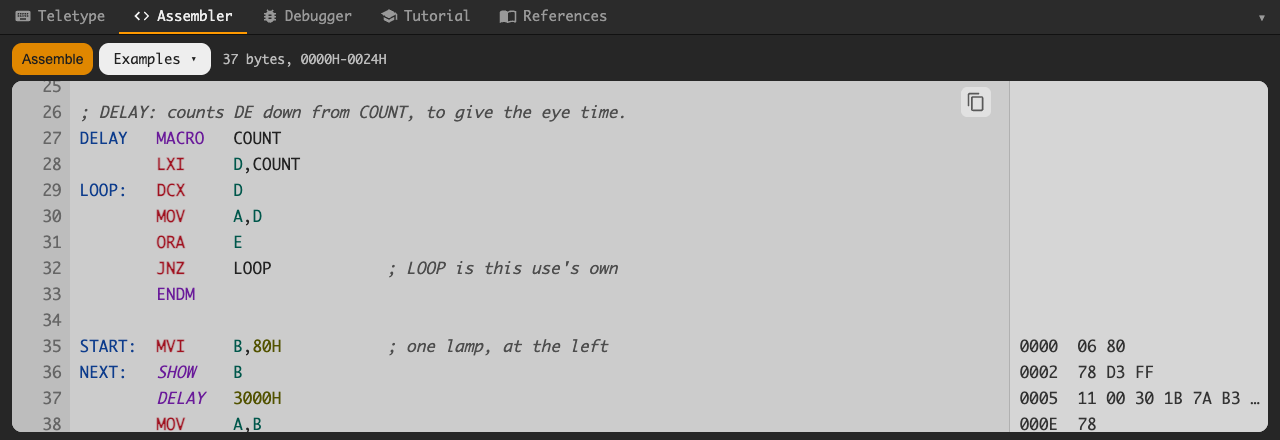
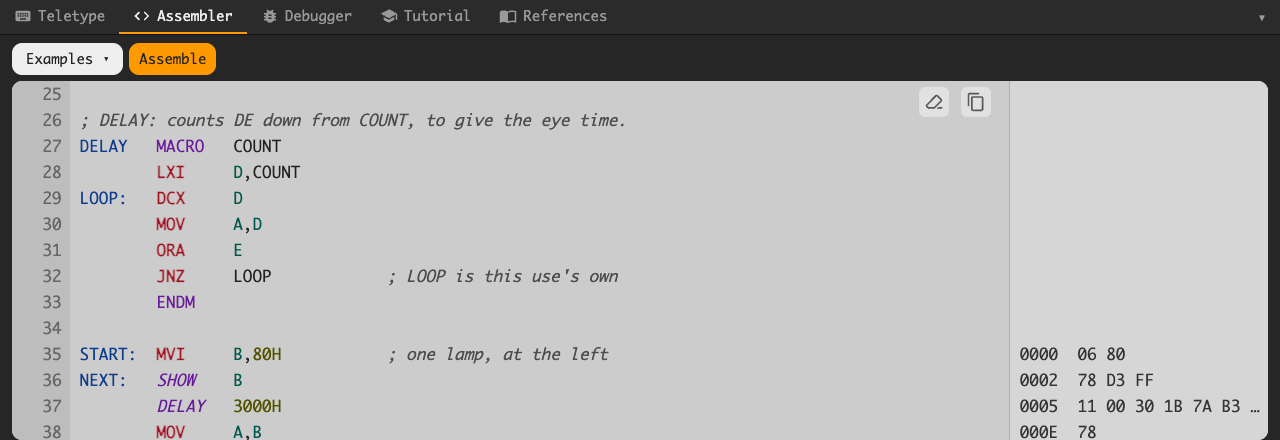
Examples before Assemble, no summary, and an eraser for Clear (#12)
The Assembler's toolbar now reads in the order it is used: Examples,
then Assemble. The summary beside them - the size and range, or how
many errors, kept up to date while typing - is gone: it repeated the
listing and the error list, and the status line says the same once
Assemble is pressed. Clear's icon is an eraser rather than a backspace
key, which read as deleting one character.

The browser checks hold the new order on desktop and phone, and the
README's picture of the Assembler is retaken.

diff --git a/index.html b/index.html
@@ -179,7 +179,6 @@
                line for line; the errors under them. -->
           <div id="tab-asm" class="dock-pane" role="tabpanel">
             <div class="asm-toolbar">
-              <button id="asm-assemble" class="button asm-assemble l10n" type="button">Assemble</button>
               <div id="asm-examples-dropdown" class="dropdown">
                 <button id="asm-examples-button" class="button" type="button"
                         aria-haspopup="listbox" aria-expanded="false">
@@ -188,7 +187,7 @@
                 </button>
                 <ul id="asm-examples-list" role="listbox" hidden></ul>
               </div>
-              <div id="asm-summary" class="asm-summary" aria-live="polite"></div>
+              <button id="asm-assemble" class="button asm-assemble l10n" type="button">Assemble</button>
               <div class="toolbar-spacer"></div>
               <div id="asm-view-toggle" class="button" role="button" tabindex="0">Listing</div>
             </div>
@@ -204,7 +203,7 @@
                        area's own is hidden. -->
                   <span id="asm-caret" class="asm-caret" aria-hidden="true" hidden></span>
                   <span id="asm-measure" class="asm-measure" aria-hidden="true"><span>0000000000</span></span>
-                  <button id="asm-clear" class="icon-button asm-corner asm-clear" type="button"><svg class="icon" viewBox="0 0 24 24" aria-hidden="true"><path d="M22 3H7c-.69 0-1.23.35-1.59.88L0 12l5.41 8.11c.36.53.9.89 1.59.89h15c1.1 0 2-.9 2-2V5c0-1.1-.9-2-2-2zm0 16H7.07L2.4 12l4.66-7H22v14zm-11.59-2L14 13.41 17.59 17 19 15.59 15.41 12 19 8.41 17.59 7 14 10.59 10.41 7 9 8.41 12.59 12 9 15.59z"/></svg></button>
+                  <button id="asm-clear" class="icon-button asm-corner asm-clear" type="button"><svg class="icon" viewBox="0 -960 960 960" aria-hidden="true"><path d="M690-240h190v80H610l80-80Zm-500 80-85-85q-23-23-23.5-57t22.5-58l440-456q23-24 56.5-24t56.5 23l199 199q23 23 23 57t-23 57L520-160H190Zm296-80 314-322-198-198-442 456 64 64h262Zm-6-240Z"/></svg></button>
                   <button id="asm-copy" class="icon-button asm-corner asm-copy" type="button"><svg class="icon asm-copy-icon" viewBox="0 0 24 24" aria-hidden="true"><path d="M16 1H4c-1.1 0-2 .9-2 2v14h2V3h12V1zm3 4H8c-1.1 0-2 .9-2 2v14c0 1.1.9 2 2 2h11c1.1 0 2-.9 2-2V7c0-1.1-.9-2-2-2zm0 16H8V7h11v14z"/></svg><svg class="icon asm-copied-icon" viewBox="0 0 24 24" aria-hidden="true"><path d="M9 16.17L4.83 12l-1.42 1.41L9 19 21 7l-1.41-1.41z"/></svg></button>
                 </div>
               </div>

diff --git a/js/asmtab.js b/js/asmtab.js
@@ -167,7 +167,6 @@ asmtab.refresh = function() {
     asmtab.renderText();
     asmtab.renderListing();
     asmtab.renderErrors();
-    asmtab.renderSummary();
     asmtab.refreshClear();
 };
 
@@ -572,23 +571,6 @@ asmtab.renderErrors = function() {
             e.line + '">' + asmtab.escape(asmtab.errorText(e)) +
             '</button></li>';
     }).join('');
-};
-
-/** Redraws the summary beside the toolbar's buttons. */
-asmtab.renderSummary = function() {
-    var result = asmtab.result;
-    var summary = document.getElementById('asm-summary');
-    summary.classList.toggle('asm-summary-bad', !!result && !result.ok);
-    if (!result || (result.ok && !result.size)) {
-        summary.textContent = '';
-    } else if (!result.ok) {
-        summary.textContent = asmtab.fill(l10n.getMessage('asm-summary-errors'),
-                                          {count: result.errors.length});
-    } else {
-        summary.textContent = asmtab.fill(l10n.getMessage('asm-summary-ok'), {
-            bytes: result.size, start: Asm8080.hex(result.start, 4),
-            end: Asm8080.hex(result.end, 4)});
-    }
 };
 
 /**
@@ -1047,7 +1029,6 @@ asmtab.refreshText = function() {
         return;
     }
     asmtab.renderErrors();
-    asmtab.renderSummary();
     asmtab.refreshViewToggle();
     var msg = l10n.getMessage;
     asmtab.source().setAttribute('aria-label', msg('asm-source-label'));

diff --git a/js/l10n.js b/js/l10n.js
@@ -1787,32 +1787,6 @@ l10n.MESSAGES = {
         'ko': '소스',
     },
 
-    'asm-summary-ok': {
-        'en': '{bytes} bytes, {start}H-{end}H',
-        'es': '{bytes} bytes, {start}H-{end}H',
-        'fr': '{bytes} octets, {start}H-{end}H',
-        'de': '{bytes} Bytes, {start}H-{end}H',
-        'it': '{bytes} byte, {start}H-{end}H',
-        'pt-BR': '{bytes} bytes, {start}H-{end}H',
-        'zh': '{bytes} 字节，{start}H-{end}H',
-        'zh-TW': '{bytes} 位元組，{start}H-{end}H',
-        'ja': '{bytes} バイト、{start}H-{end}H',
-        'ko': '{bytes}바이트, {start}H-{end}H',
-    },
-
-    'asm-summary-errors': {
-        'en': 'Errors: {count}',
-        'es': 'Errores: {count}',
-        'fr': 'Erreurs : {count}',
-        'de': 'Fehler: {count}',
-        'it': 'Errori: {count}',
-        'pt-BR': 'Erros: {count}',
-        'zh': '错误：{count}',
-        'zh-TW': '錯誤：{count}',
-        'ja': 'エラー：{count}',
-        'ko': '오류: {count}',
-    },
-
     'asm-error-at': {
         'en': 'Line {line}: {message}',
         'es': 'Línea {line}: {message}',

diff --git a/css/style.css b/css/style.css
@@ -1252,17 +1252,6 @@ a {
     color: #222;
 }
 
-.asm-summary {
-    color: #bbb;
-    font-size: 13px;
-    margin-left: 6px;
-    white-space: nowrap;
-}
-
-.asm-summary.asm-summary-bad {
-    color: #ff8a80;
-}
-
 /* Only a phone needs it. */
 #asm-view-toggle {
     display: none;

diff --git a/docs/assembler.md b/docs/assembler.md
@@ -380,7 +380,7 @@ phone's width, so, as agreed in #12:
 
 ```
 ┌ Assembler ──────────────────────────────────────────────────────────────────┐
-│ [Assemble ⌘↵]  [Examples ▾]   12 bytes, 0000H-000BH                         │
+│ [Examples ▾]  [Assemble ⌘↵]                                                 │
 ├──────────────────────────────────────────────┬──────────────────────────────┤
 │  1        ORG  0                ; start here  │ 0000                         │
 │  2 LOOP:  IN   0FFH             ; switches    │ 0000  DB FF                  │
@@ -392,10 +392,13 @@ phone's width, so, as agreed in #12:
    the source, highlighted                         the listing, line for line
 ```
 
-- **A toolbar** across the top. **Assemble** is the primary button,
-  also pressed with Ctrl+Enter (⌘+Enter on a Mac). **Examples** opens
-  a menu of example sources (T3). Beside them, a summary of the last
-  assembly: its size and range, or how many errors.
+- **A toolbar** across the top. **Examples** opens a menu of example
+  sources (T3); **Assemble**, beside it in the order they are used, is
+  the primary button, also pressed with Ctrl+Enter (⌘+Enter on a Mac).
+  There was a summary beside them too, the size and range or how many
+  errors, kept up to date as you typed; it repeated the listing and
+  the error list, and the status line says the same once you
+  assemble, so it went.
 - **The source** on the left, in the editor: line numbers in a gutter,
   highlighting (Part 5), lines with errors marked in the gutter and
   tinted.
@@ -451,7 +454,7 @@ dependencies, and keeps it that way.
 ### U4 — Assembling
 
 The source is assembled again whenever typing pauses, for the listing,
-the error marks and the summary; that touches nothing in the machine.
+and the error marks; that touches nothing in the machine.
 **Assemble** reads the whole source and, if there is no error:
 
 1. Switches the machine on, if it was off, and says so.
